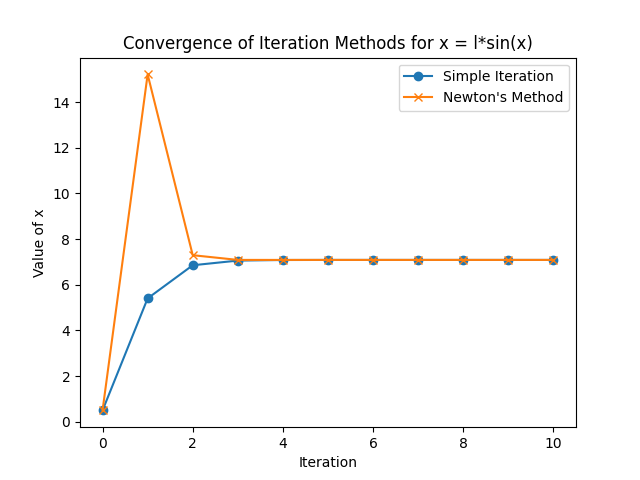
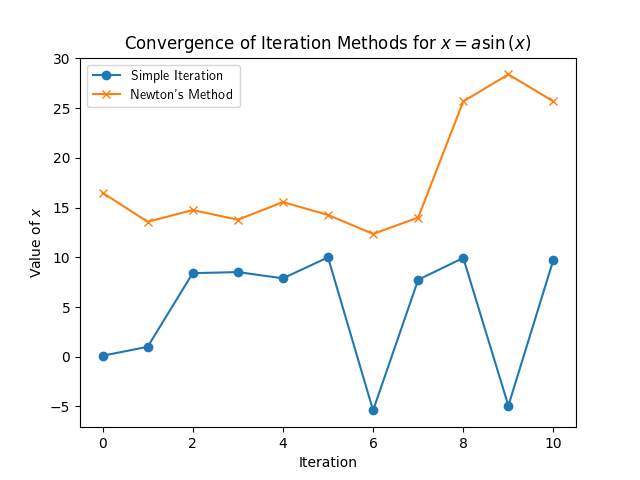
update lab

diff --git a/NonlinearEquation/solve.py b/NonlinearEquation/solve.py
@@ -1,55 +1,99 @@
-from sympy import symbols, Eq, solve, log
-from sympy.plotting import plot
-import matplotlib.pyplot as plt
+from sympy import symbols, log, diff, lambdify, exp, sin, printing
+from math import pi
 import numpy as np
+import matplotlib.pyplot as plt
 
-def simple_iteration(a_val, x0, iterations=10):
+NUM_ITERATIONS = 10
+
+def simple_iteration(func, a_val, x0, iterations=NUM_ITERATIONS):
     x_vals = [x0]
     for i in range(iterations):
-        x_new = a_val + log(1 + x_vals[-1])
+        x_new = func(x_vals[-1], a_val)
         x_vals.append(x_new)
     return x_vals
 
-def newtons_method(a_val, x0, iterations=10):
+def newton_method(func, func_prime, a_val, x0, iterations=NUM_ITERATIONS):
     x_vals = [x0]
     for i in range(iterations):
-        f_x = x_vals[-1] - a_val - log(1 + x_vals[-1])
-        f_prime_x = 1 - 1 / (1 + x_vals[-1])
+        f_x = func(x_vals[-1], a_val)
+        f_prime_x = func_prime(x_vals[-1], a_val)
         x_new = x_vals[-1] - f_x/f_prime_x
         x_vals.append(x_new)
     return x_vals
 
-a_val = 5
-x0 = 0.5
+# Пользователь определяет свою функцию и её производную
+x = symbols('x')
+a = symbols('a')
 
-simple_iter_values = simple_iteration(a_val, x0)
-newtons_values = newtons_method(a_val, x0)
+# x - a = ln(1 + x)
+# sym_function_simple = a + log(1 + x)
 
+# sym_function_newton = a + log(1 + x) - x
+# sym_function_newton_prime = diff(sym_function_newton, x)  # Производная функции
+
+# x = e^(x - a) - 1
+# sym_function_simple = exp(x - a) - 1
+
+# sym_function_newton = exp(x - a) - 1 - x
+# sym_function_newton_prime = diff(sym_function_newton, x)  # Производная функции
+
+# x = a sin(x)
+sym_function_simple = a * sin(x);
+
+sym_function_newton = a * sin(x) - x
+sym_function_newton_prime = diff(sym_function_newton, x)  # Производная функции
+
+# x = arcsin(x / l)
+
+# Превращение символьных функций в численные функции
+func_simple = lambdify([x, a], sym_function_simple)
+
+func_newton = lambdify([x, a], sym_function_newton)
+func_newton_prime = lambdify([x, a], sym_function_newton_prime)
+
+a_val = 10
+x0 = 0.1
+
+simple_iter_values = simple_iteration(func_simple, a_val, x0)
 print("simple: " + str(simple_iter_values[-1]))
-print("newton: " + str(newtons_values[-1]))
+
+for i in range(0, 10, 1):
+    x0 = pi / 4 + (pi * i)
+    newtons_values = newton_method(func_newton, func_newton_prime, a_val, x0)
+    if (abs(newtons_values[-1] - newtons_values[-2]) > 0.1):
+        break
+    print(f"x={round(x0, 2)}: newton: {newtons_values[-1]}")
+    print(f"x={round(-x0, 2)}: newton: {-newtons_values[-1]}")
+
+# newtons_values = newton_method(func_newton, func_newton_prime, a_val, x0)
+# print("newton: " + str(newtons_values[-1]))
+
+func_simple_str = printing.latex(sym_function_simple)
+func_newton_str = printing.latex(sym_function_newton)
 
 fig, ax = plt.subplots()
+plt.rc('text', usetex=True)
 ax.plot(simple_iter_values, label='Simple Iteration', marker='o')
 ax.plot(newtons_values, label='Newton\'s Method', marker='x')
 ax.set_xlabel('Iteration')
-ax.set_ylabel('Value of x')
-ax.set_title('Convergence of Iteration Methods for x = l*sin(x)')
+ax.set_ylabel('Value of $x$')
+ax.set_title(f'Convergence of Iteration Methods for $x = {func_simple_str}$')
 ax.legend()
 
 iteration_convergence_variant = 'iteration_convergence_variant.png'
 plt.savefig(iteration_convergence_variant)
 plt.close()
 
-x_vals = np.linspace(0, 10, 400)
+x_vals = np.linspace(-10, 10, 400)
 f_x_vals = x_vals
-g_x_vals = a_val + np.log1p(x_vals)
+g_x_vals = func_simple(x_vals, a_val)
 
 plt.figure(figsize=(10, 6))
-plt.plot(x_vals, f_x_vals, label='f(x) = x')
-plt.plot(x_vals, g_x_vals, label='g(x) = a + ln(1+x)', linestyle='--')
+plt.plot(x_vals, f_x_vals, label='$f(x) = x$')
+plt.plot(x_vals, g_x_vals, label=f'$g(x) = {func_simple_str}$', linestyle='--')
 plt.xlabel('x')
 plt.ylabel('y')
-plt.title('Graphs of f(x) = x and g(x) = a + ln(1+x)')
+plt.title(f'Graphs of $f(x) = x$ and $g(x) = {func_simple_str}$')
 plt.legend()
 plt.grid(True)
 
